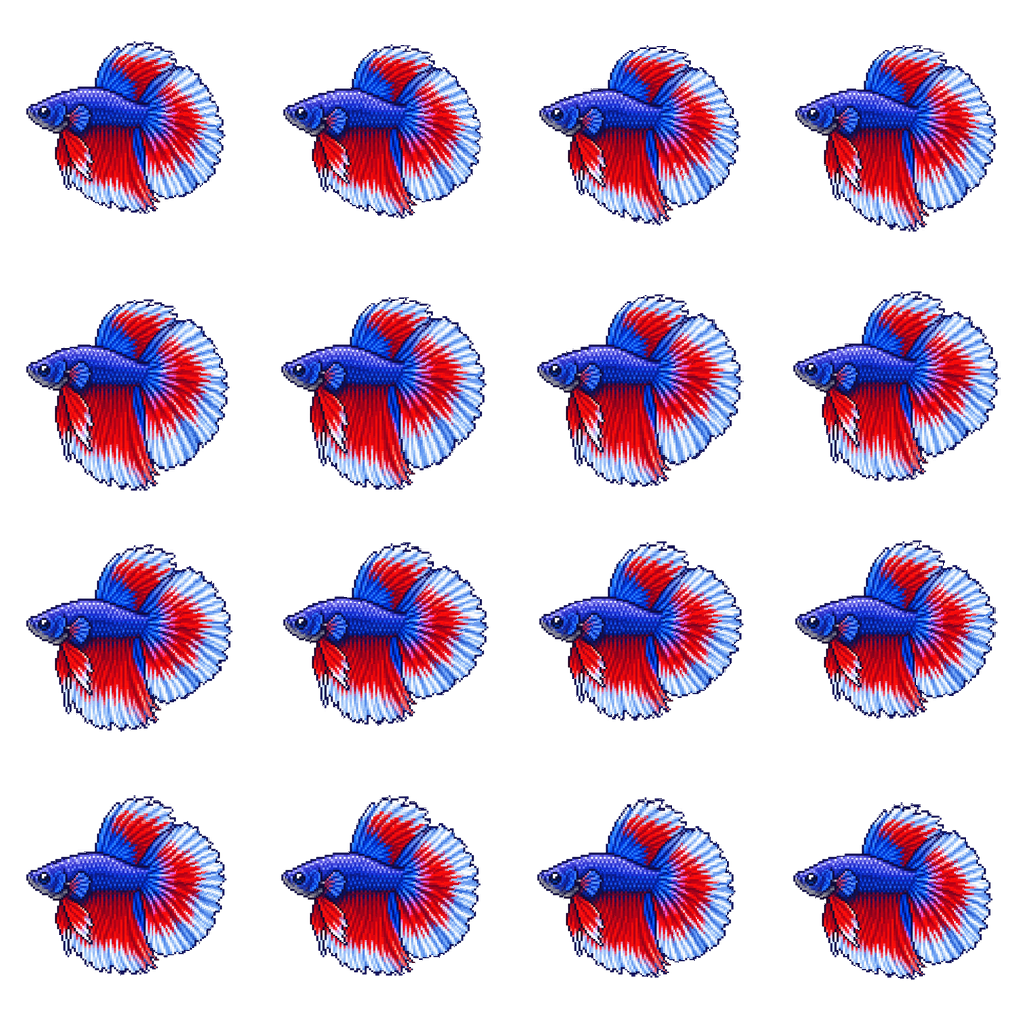
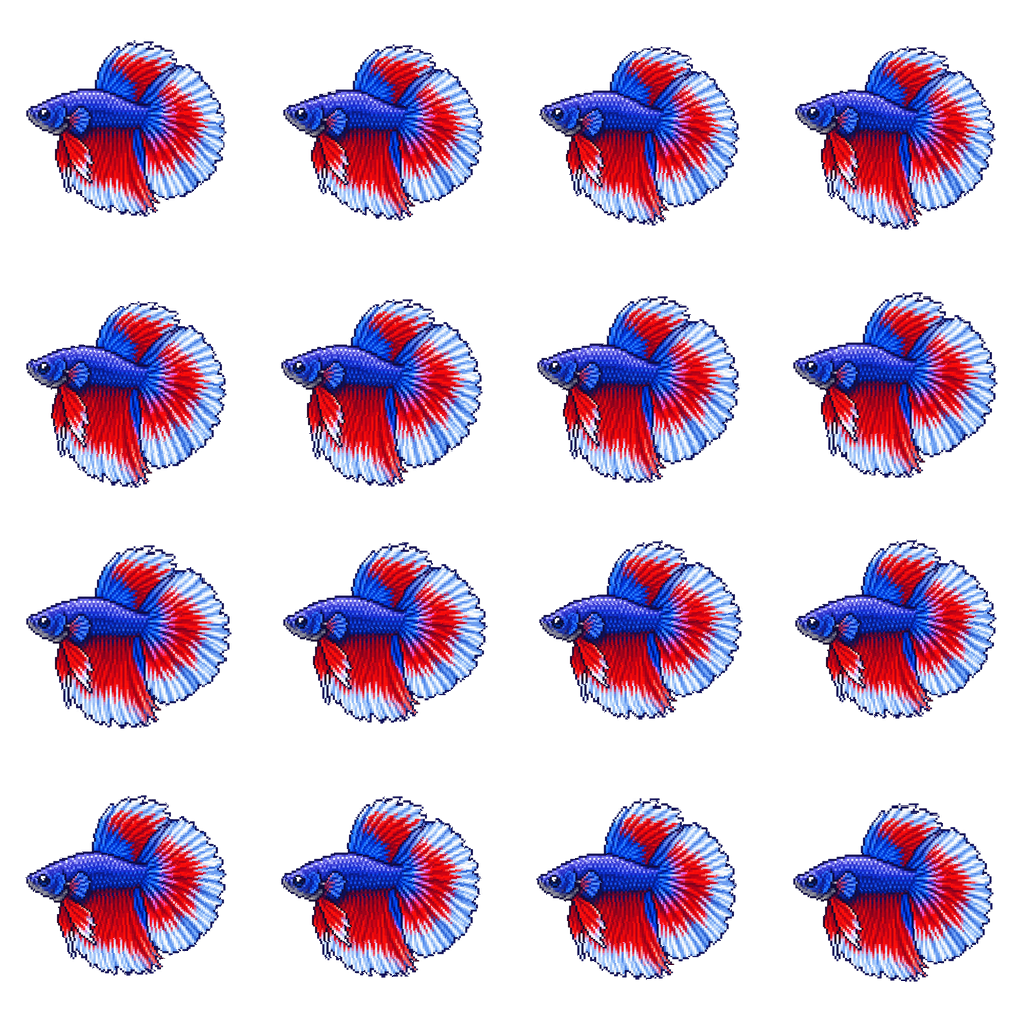
Swing the betta's torso as a solid body instead of bending it
The body wave was shearing the torso, which read as rubbery. Replaced with a
rigid rotation of the whole frame about a pivot behind the head: no internal
deformation at all, so the torso keeps its shape while swinging. Points far
from the pivot travel furthest, so the tail end sweeps and the nose barely
moves - which is what sculling looks like.

Fin ripple amplitudes are reduced accordingly, since the rigid swing already
carries the fins along.

Loop still closes: wrap change 0.0238 within the 0.0131-0.0311 per-frame range.

diff --git a/make_spritesheet.py b/make_spritesheet.py
@@ -139,6 +139,23 @@ def mesh_warp(image, displace, cells=26):
     return image.transform((width, height), Image.MESH, mesh, Image.NEAREST)
 
 
+def rigid_offset(u, v, angle_deg, pivot=(0.32, 0.44), size=FRAME):
+    """Displacement for rotating a point about a pivot as part of a solid body.
+
+    Applied across the whole frame this rotates the sprite rigidly - no shear,
+    no bending. Points far from the pivot travel furthest, so a pivot set behind
+    the head makes the torso swing while the nose barely moves, which is what
+    sculling actually looks like.
+    """
+    angle = math.radians(angle_deg)
+    x, y = u * size, v * size
+    px, py = pivot[0] * size, pivot[1] * size
+    cos_a, sin_a = math.cos(angle), math.sin(angle)
+    dx = (cos_a - 1) * (x - px) - sin_a * (y - py)
+    dy = sin_a * (x - px) + (cos_a - 1) * (y - py)
+    return dx, dy
+
+
 def frame_veil(base, phase, body_line=0.42, fin_start=0.10, caudal_start=0.55):
     """Long-finned hoverer: compact body, huge fins that trail behind it.
 
@@ -157,18 +174,22 @@ def frame_veil(base, phase, body_line=0.42, fin_start=0.10, caudal_start=0.55):
         caudal_fin = smoothstep(caudal_start, 0.95, u)
         fin = max(vertical_fin, caudal_fin)
 
-        # body: hovering, with only a slight wave towards the tail
-        dy = 2.4 * math.sin(phase)
-        dy += 1.6 * math.sin(phase + 0.5) * smoothstep(0.15, 0.7, u)
-        dx = 1.2 * math.sin(phase * 2 + 0.3)
+        # The torso swings as one solid piece rather than bending. Rotating the
+        # whole frame about a pivot behind the head keeps the body rigid and
+        # still carries the fins along, since they sit furthest from the pivot.
+        dx, dy = rigid_offset(u, v, 4.0 * math.sin(phase), pivot=(0.30, 0.44))
 
-        # fins trail: the further out, the later the phase arrives
+        # bob and a little surge, again as whole-body movement
+        dy += 3.0 * math.sin(phase + 0.6)
+        dx += 1.6 * math.sin(phase * 2 + 0.3)
+
+        # fins add a trailing ripple on top of the rigid swing
         lag = 1.9 * fin
-        dy += 10.5 * fin * math.sin(phase - lag + u * 3.0)
-        dx += 4.2 * caudal_fin * math.sin(phase - lag + 0.6)
+        dy += 5.5 * fin * math.sin(phase - lag + u * 3.0)
+        dx += 2.4 * caudal_fin * math.sin(phase - lag + 0.6)
 
         # a finer ripple across the membrane, twice per cycle
-        dy += 3.4 * fin * math.sin(phase * 2 - lag + v * 7.0)
+        dy += 2.6 * fin * math.sin(phase * 2 - lag + v * 7.0)
 
         # pectoral fan just behind the head flutters fast and independently
         pectoral = (smoothstep(0.16, 0.24, u) * (1.0 - smoothstep(0.30, 0.40, u))
